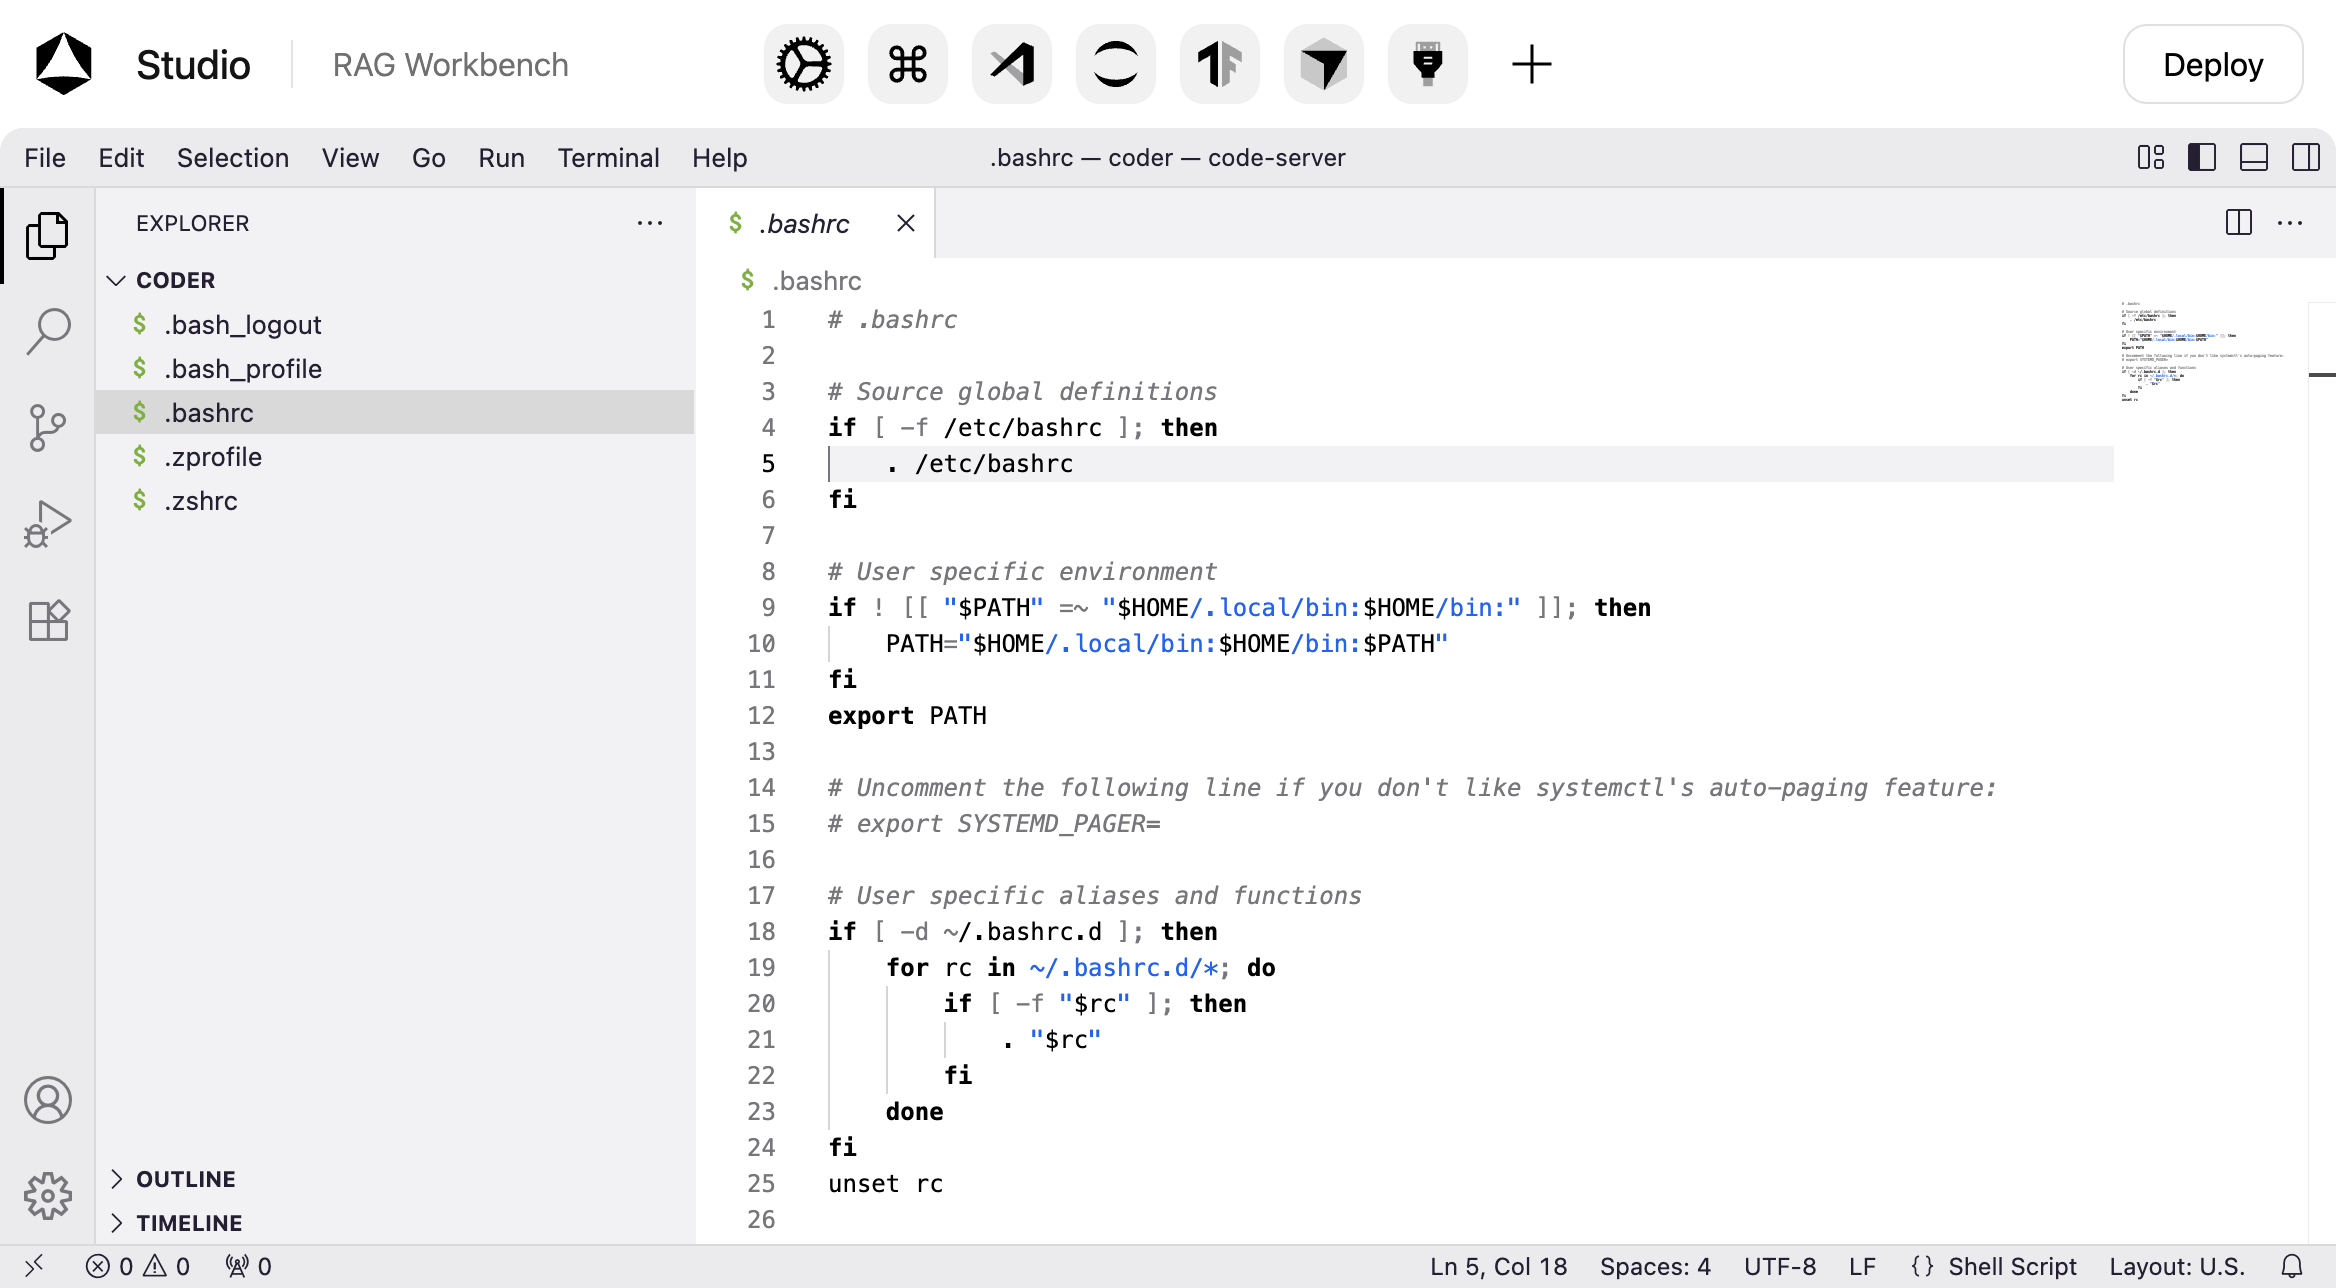
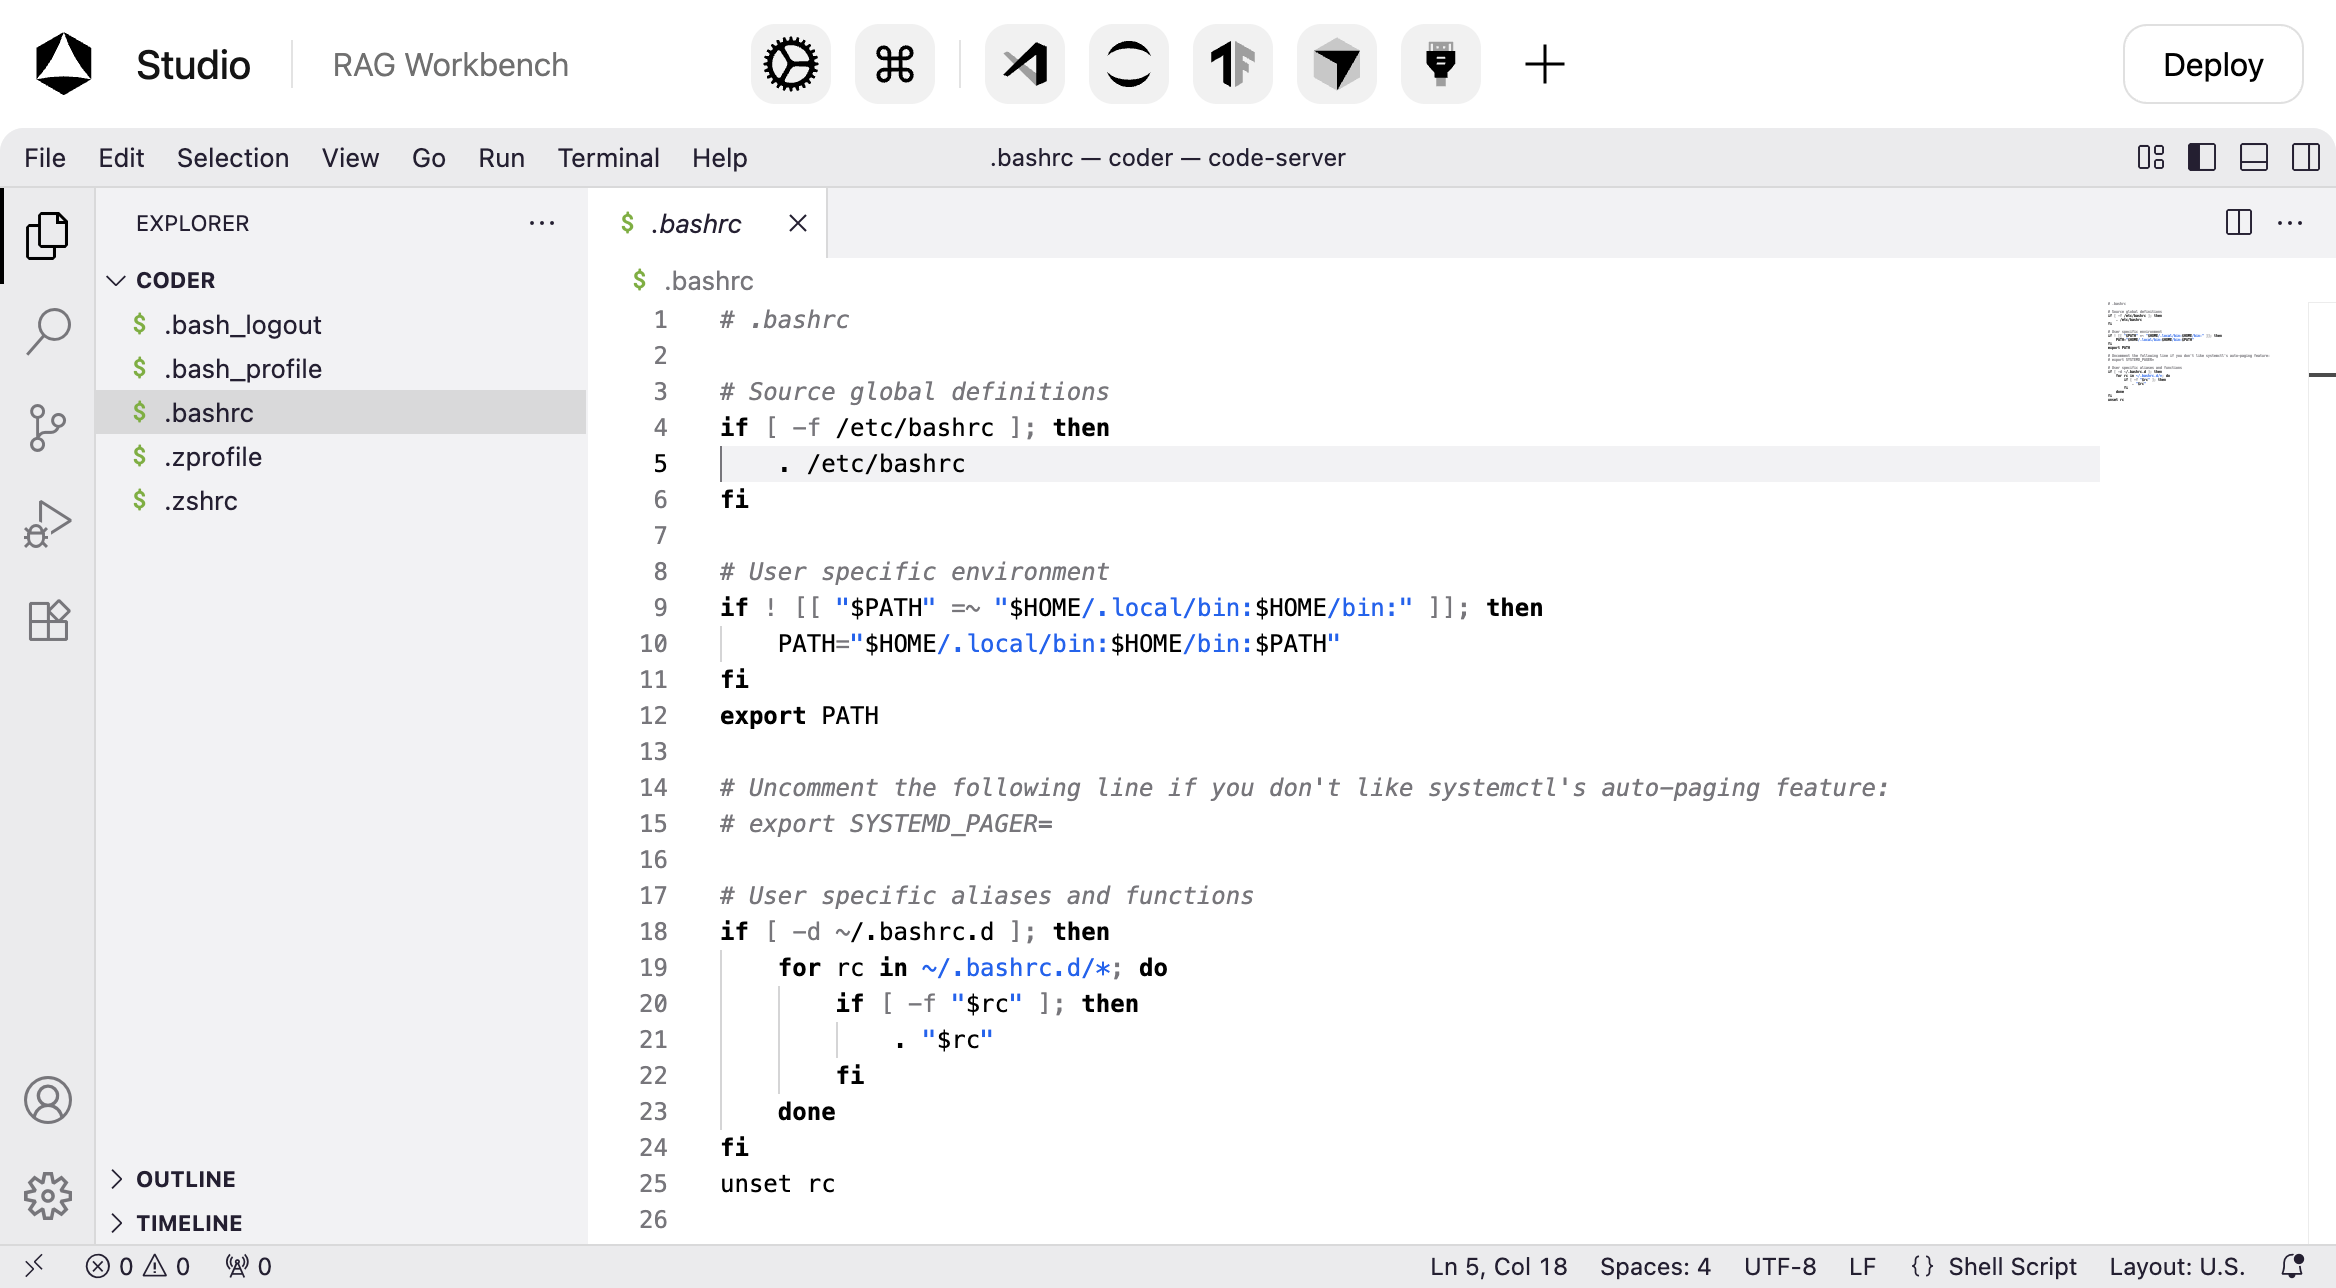
Improve landingpage

diff --git a/data/styles/layout/_header.scss b/data/styles/layout/_header.scss
@@ -37,6 +37,7 @@
         display: flex;
         justify-self: center;
         column-gap: 0.75rem;
+        align-items: center;
 
         .center__item {
             width: 2.5rem;
@@ -51,6 +52,12 @@
             &:last-child {
                 background: transparent;
             }
+        }
+
+        .center__delimiter {
+            width: 1px;
+            height: 1.5rem;
+            background: rgba(64, 64, 64, 0.15);
         }
     }
 

diff --git a/data/templates/layout/header.html b/data/templates/layout/header.html
@@ -16,6 +16,7 @@
         <button class="center__item">
             <img src="/static/images/terminal.svg" draggable="false" width="100%" height="100%">
         </button>
+        <div class="center__delimiter"></div>
         <button class="center__item">
             <img src="/static/images/vscode.svg" onclick="render(8081)" draggable="false" width="100%" height="100%">
         </button>

diff --git a/doc/_ext/theme/styles/components/_slider.scss b/doc/_ext/theme/styles/components/_slider.scss
@@ -1,7 +1,8 @@
 .slider {
     position: relative;
     border-radius: 2rem;
-    background: rgba(64, 64, 64, 0.06);
+    background: url(/_static/gradient.avif) no-repeat center center;
+    background-size: cover;
     padding: 5rem 6.5rem 0;
     max-width: 96rem;
     margin: 0 auto;
